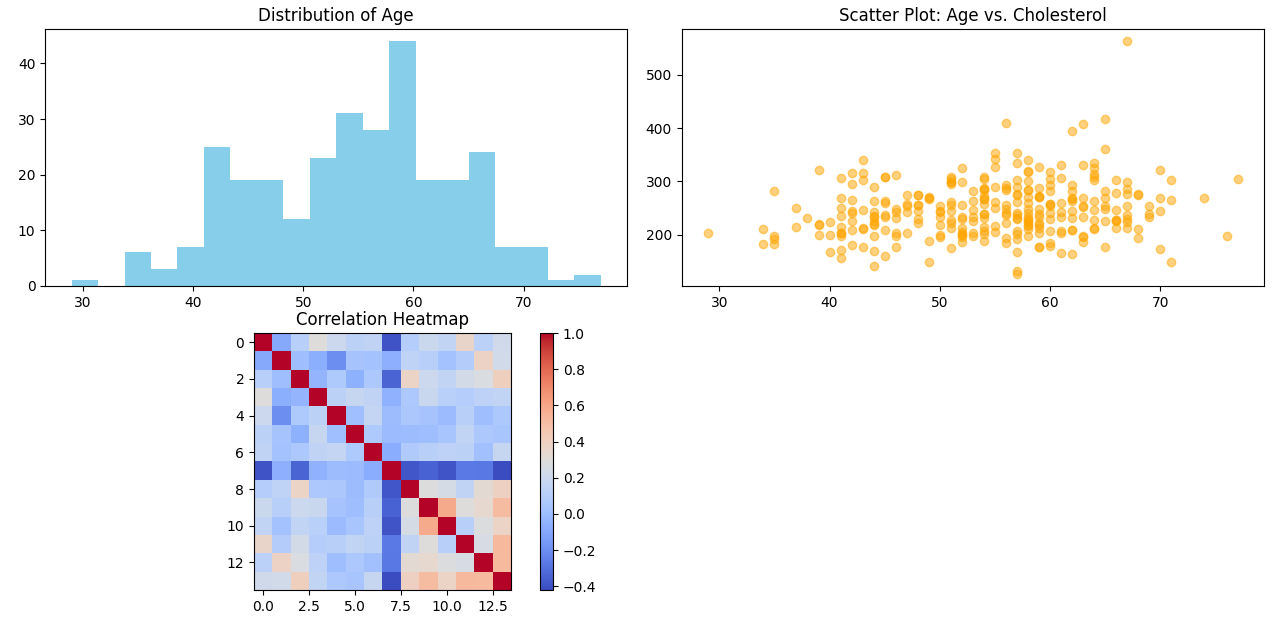
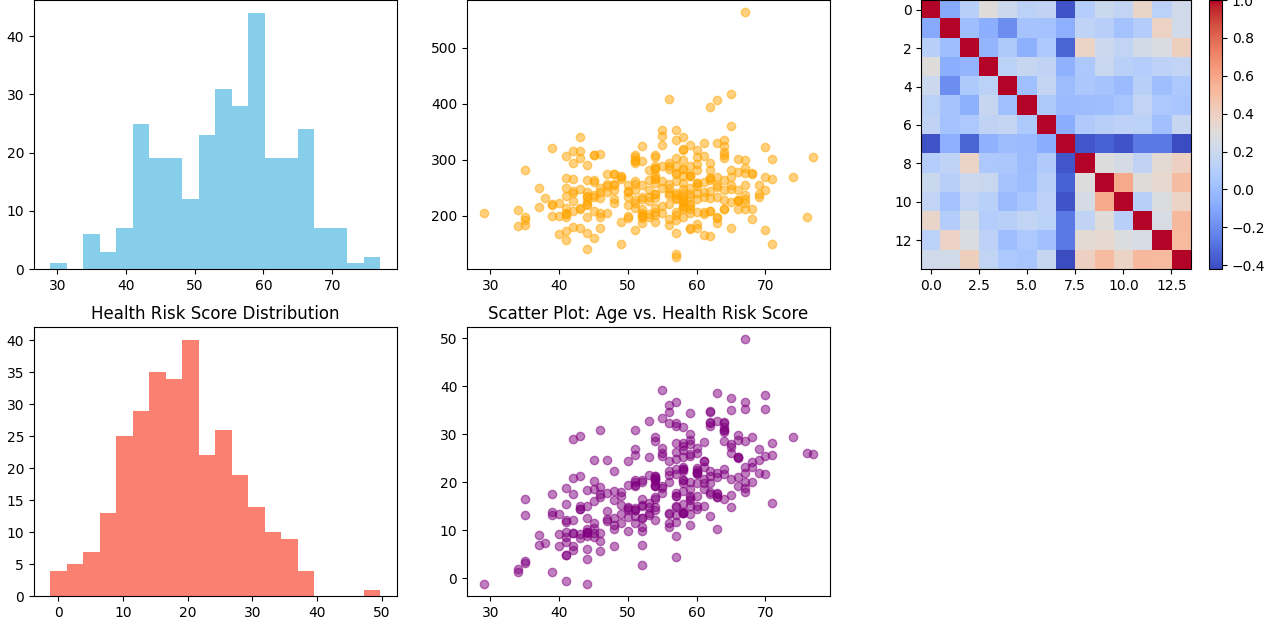
Added more features

diff --git a/Python Projects/Health Data Analysis/main.py b/Python Projects/Health Data Analysis/main.py
@@ -15,27 +15,73 @@ data = data.dropna()
 
 # Step 3: Data Analysis
 summary_stats = data.describe()
-
 correlation_matrix = data.corr()
 
 # Step 4: Data Visualization with Matplotlib
-plt.figure(figsize=(12, 8))
+plt.figure(figsize=(16, 10))
 
 # Plot the distribution of age
-plt.subplot(2, 2, 1)
+plt.subplot(2, 3, 1)
 plt.hist(data['age'], bins=20, color='skyblue')
 plt.title('Distribution of Age')
 
 # Scatter plot of age vs. cholesterol
-plt.subplot(2, 2, 2)
+plt.subplot(2, 3, 2)
 plt.scatter(data['age'], data['chol'], alpha=0.5, color='orange')
 plt.title('Scatter Plot: Age vs. Cholesterol')
 
 # Correlation heatmap
-plt.subplot(2, 2, 3)
+plt.subplot(2, 3, 3)
 plt.imshow(correlation_matrix, cmap='coolwarm', interpolation='none')
 plt.colorbar()
 plt.title('Correlation Heatmap')
+
+# Health Risk Score Calculation
+weights = {'age': 0.2, 'trestbps': 0.1, 'chol': 0.1, 'thalach': -0.2, 'oldpeak': 0.3}
+data['health_risk_score'] = data[['age', 'trestbps', 'chol', 'thalach', 'oldpeak']].mul(weights).sum(axis=1)
+
+# Plot the Health Risk Score distribution
+plt.subplot(2, 3, 4)
+plt.hist(data['health_risk_score'], bins=20, color='salmon')
+plt.title('Health Risk Score Distribution')
+
+# Scatter plot of Health Risk Score vs. Age
+plt.subplot(2, 3, 5)
+plt.scatter(data['age'], data['health_risk_score'], alpha=0.5, color='purple')
+plt.title('Scatter Plot: Age vs. Health Risk Score')
+
+# Find the age and number of persons with the maximum cholesterol levels
+max_chol_age = data.loc[data['chol'].idxmax(), 'age']
+max_chol_count = data[data['chol'] == data['chol'].max()].shape[0]
+print(f"The age with the maximum number of persons suffering from high cholesterol is {max_chol_age} with {max_chol_count} persons.")
+
+# Create a histogram of age distribution for people with the target condition
+plt.subplot(2, 3, 6)
+plt.hist(data[data['target'] == 1]['age'], bins=20, color='green', alpha=0.7)
+plt.title('Age Distribution of People with Target Condition')
+
+# Calculate the percentage of people in each age group with high cholesterol
+chol_age_groups = pd.cut(data['age'], bins=range(20, 100, 10))
+percentage_chol_by_age_group = (
+    data[data['chol'] > data['chol'].mean()]
+    .groupby(chol_age_groups, observed=False)
+    .size() / data.groupby(chol_age_groups, observed=False).size() * 100
+)
+
+# Find the age group with the maximum percentage of people facing high cholesterol
+max_chol_age_group = percentage_chol_by_age_group.idxmax()
+
+# Convert max_chol_age_group to numeric value (midpoint of the interval)
+max_chol_age_group_midpoint = max_chol_age_group.mid
+
+# Plot the percentage of people with high cholesterol in each age group
+fig, ax = plt.subplots(figsize=(10, 5))
+percentage_chol_by_age_group.plot(kind='bar', color='red', alpha=0.7)
+ax.set_xlabel('Age Group')
+ax.set_ylabel('Percentage of People with High Cholesterol')
+ax.set_title('Percentage of People with High Cholesterol in Each Age Group')
+plt.axvline(x=max_chol_age_group_midpoint, color='black', linestyle='--', linewidth=2, label='Max Percentage Age Group')
+plt.legend()
 
 plt.tight_layout()
 plt.show()
